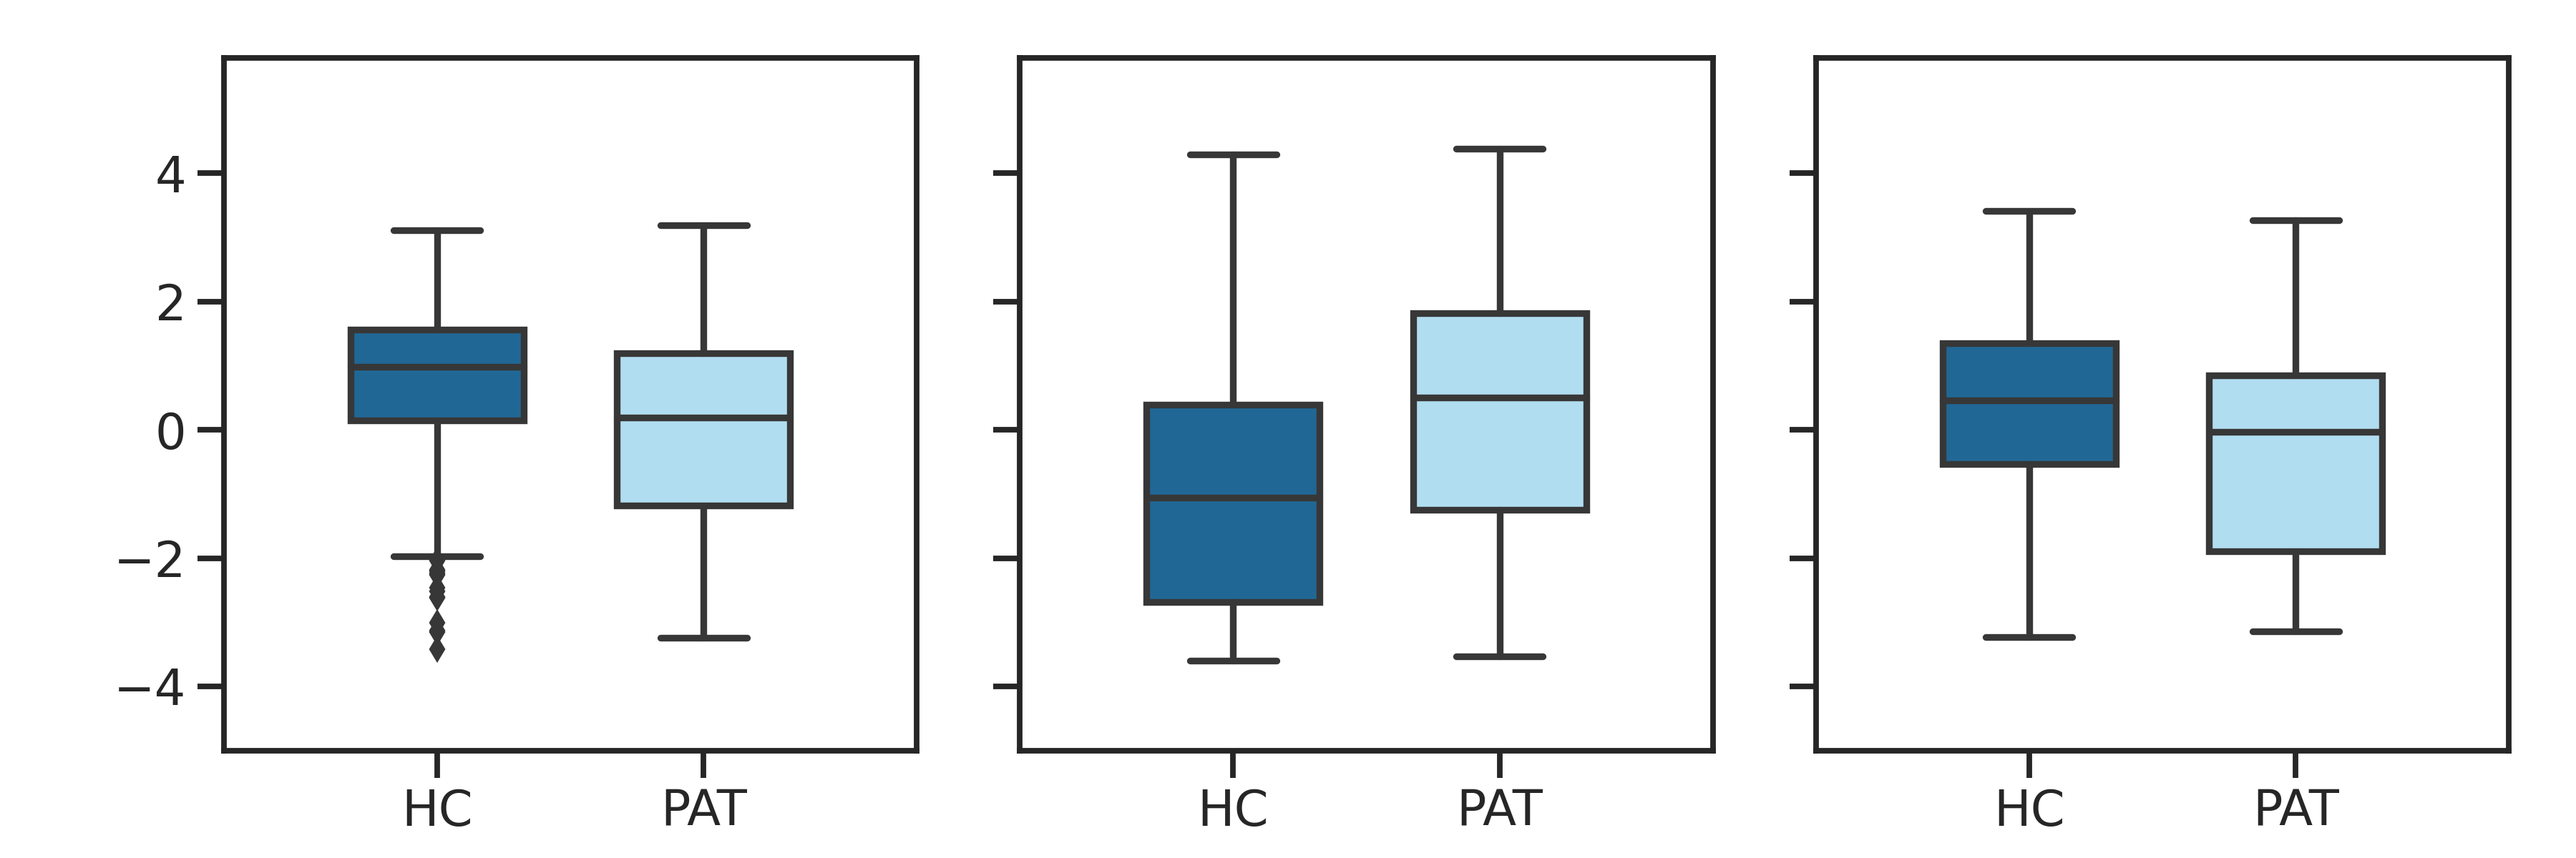
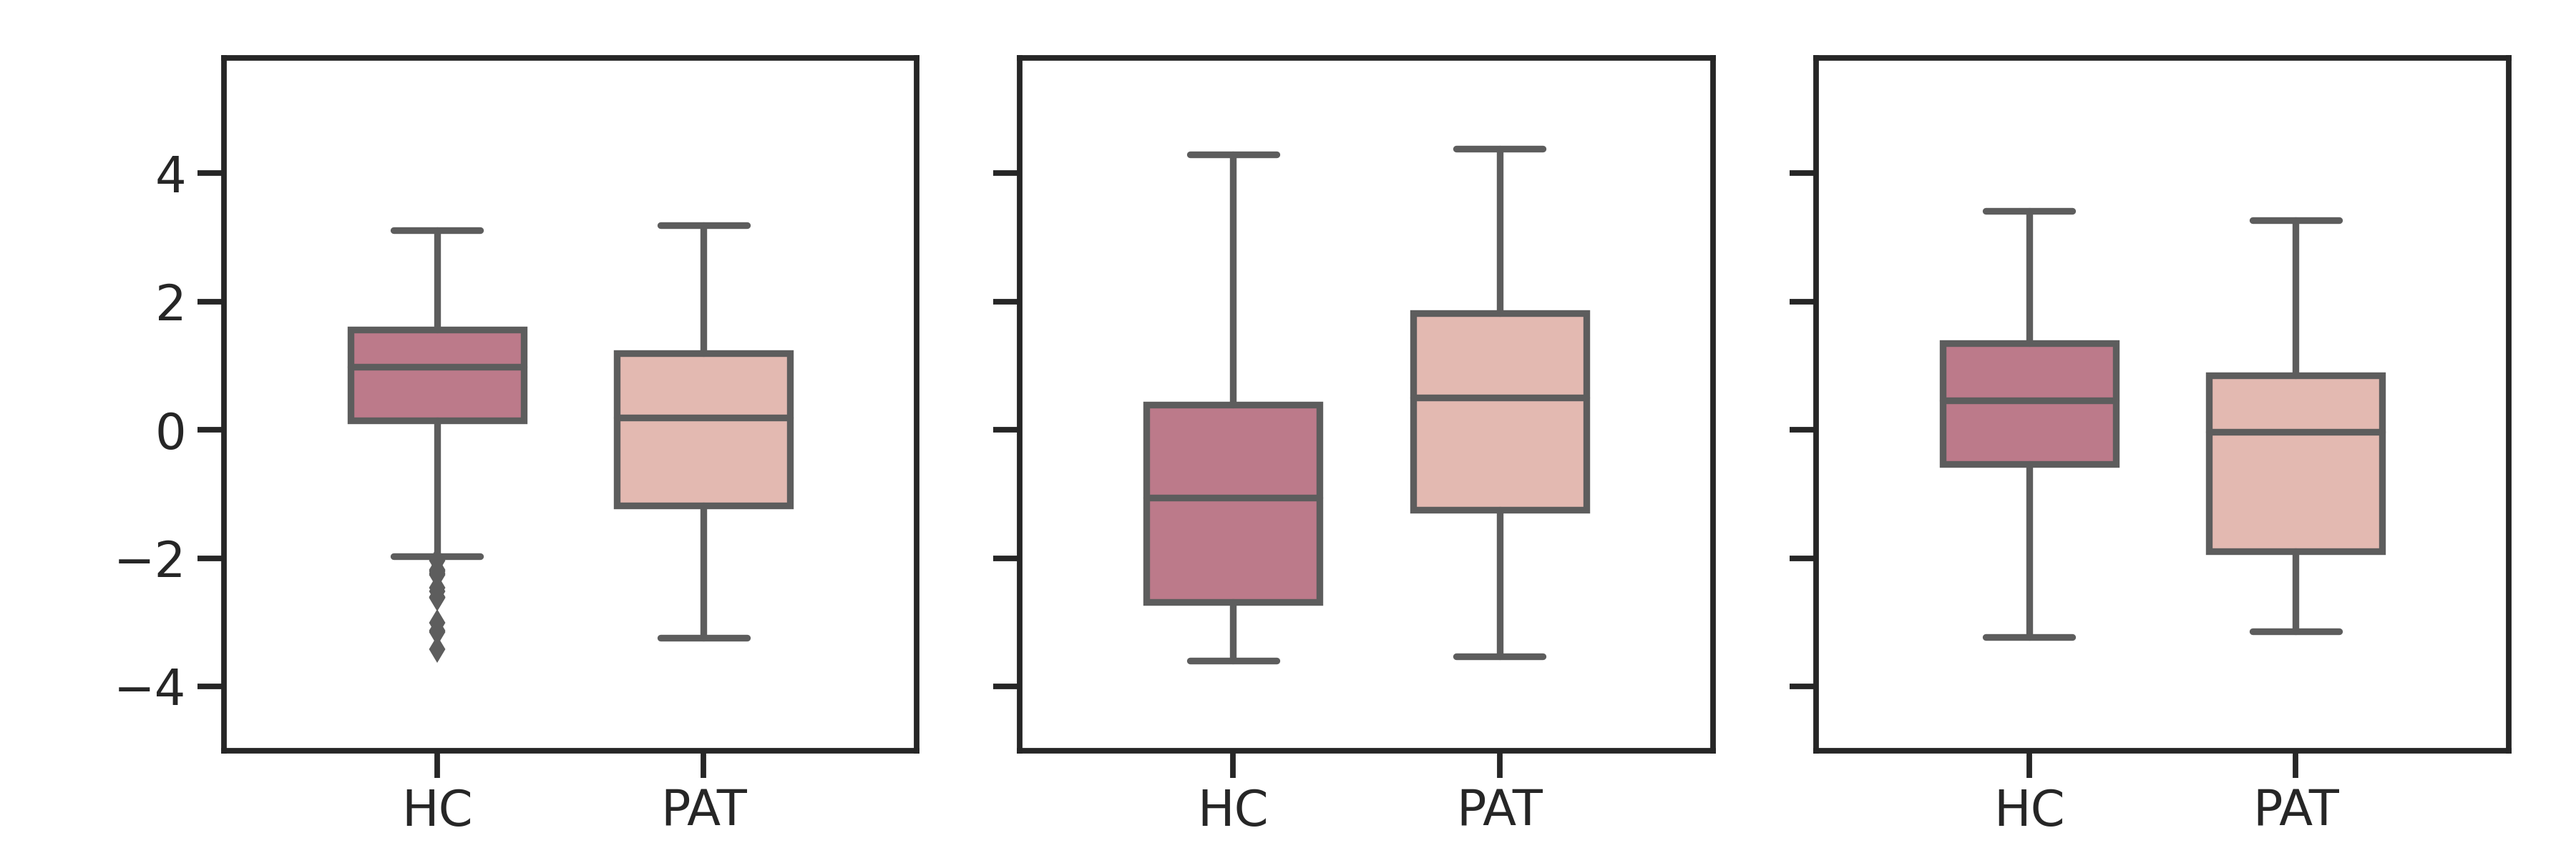
update color

diff --git a/m3_visualize.py b/m3_visualize.py
@@ -110,7 +110,7 @@ def LR_effect():
             ymin, ymax = data[tar[0]].min(), data[tar[0]].max()
             t_test(data, 'b_type=="sta"', 'b_type=="vol"', tar=tar)
             sns.boxplot(x='b_type', y=tar[0], data=data, width=.65,
-                            palette=viz.RedPairs, ax=ax)
+                            palette=viz.BluePairs, ax=ax)
             ax.set_xlim([-.8, 1.8])
             ax.set_xticks([0, 1])
             ax.set_ylim([ymin-abs(ymin)*.2, ymax+abs(ymax-1)*.5])
@@ -138,7 +138,7 @@ def HC_PAT_policy():
     for idx in range(nc):
         ax  = axs[idx]
         sns.boxplot(x='is_PAT', y=f'{tar[idx]}', data=data, width=.65,
-                        palette=viz.BluePairs, ax=ax)
+                        palette=viz.RedPairs, ax=ax)
         ax.set_xlim([-.8, 1.8])
         ax.set_ylim([-5, 5.8])
         ax.set_xticks([0, 1])
@@ -295,7 +295,7 @@ if __name__ == '__main__':
     #viz_Human()
     LR_effect()
     #viz_PiReward()
-    #HC_PAT_policy()
+    HC_PAT_policy()
     #Policy_Rew()
     #pred_biFactor()
     #pi_effect()
